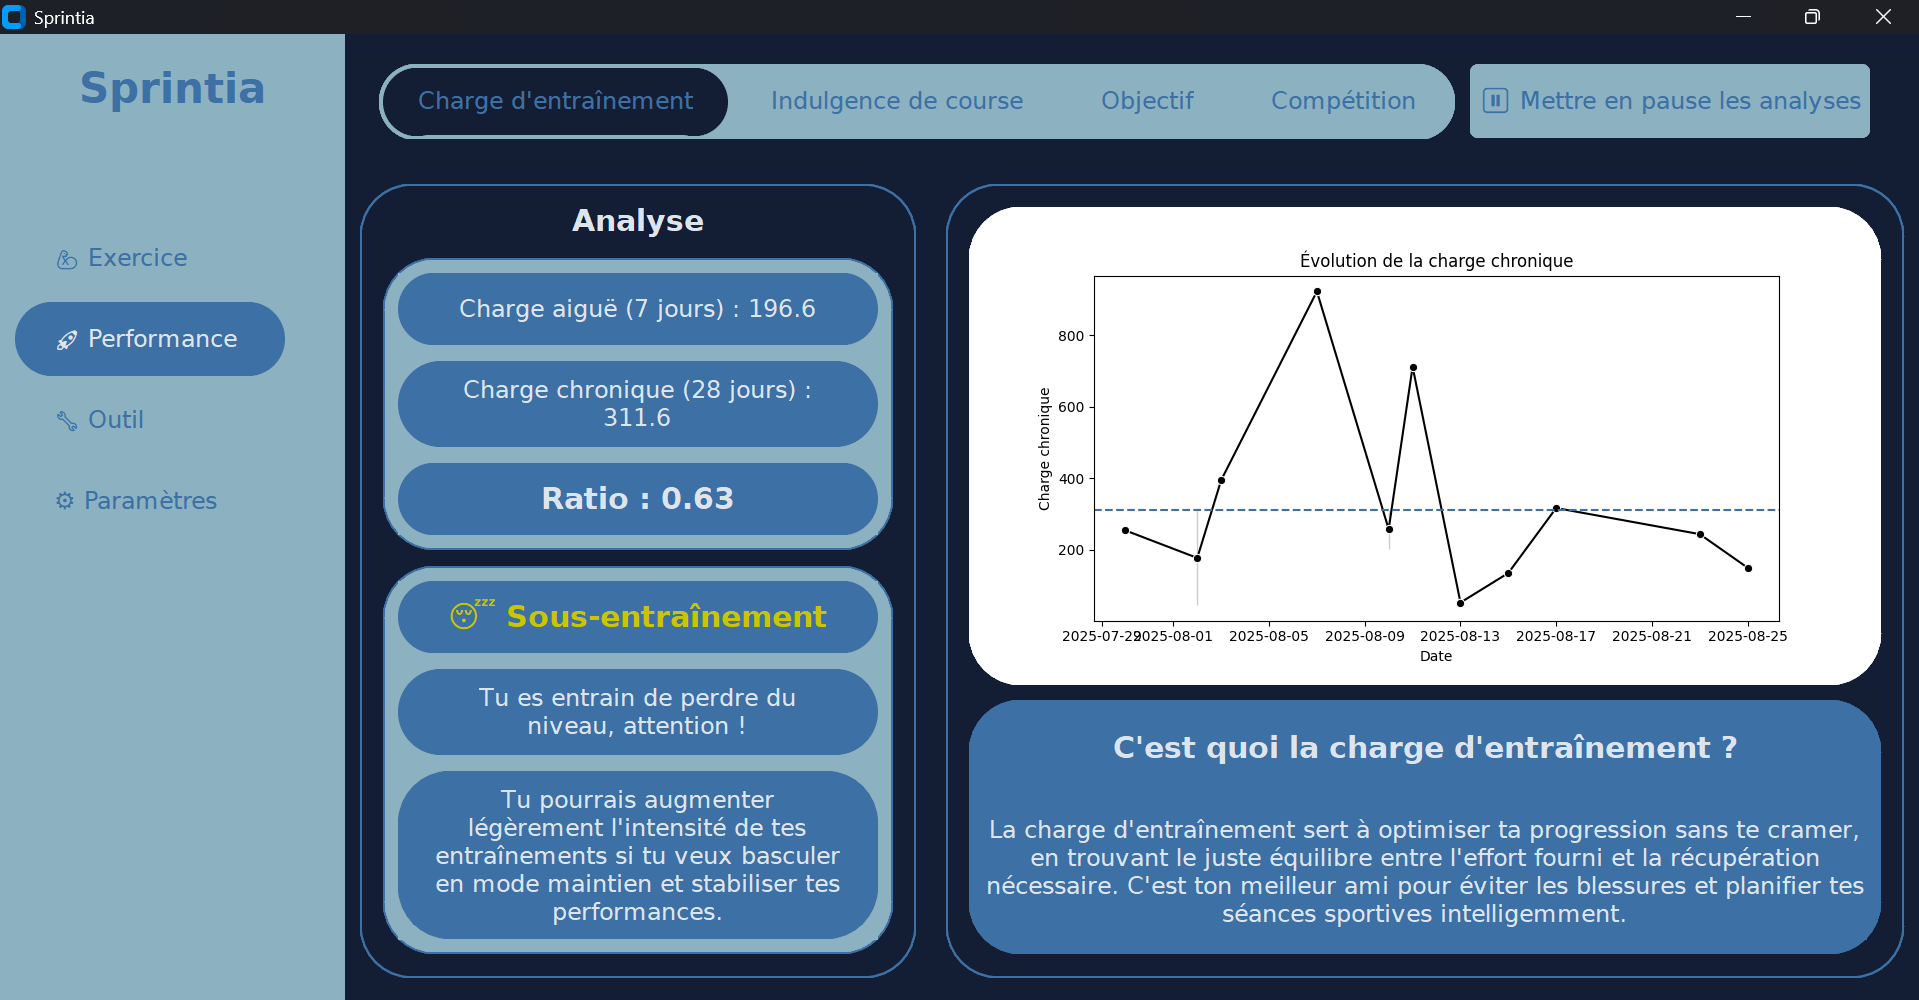
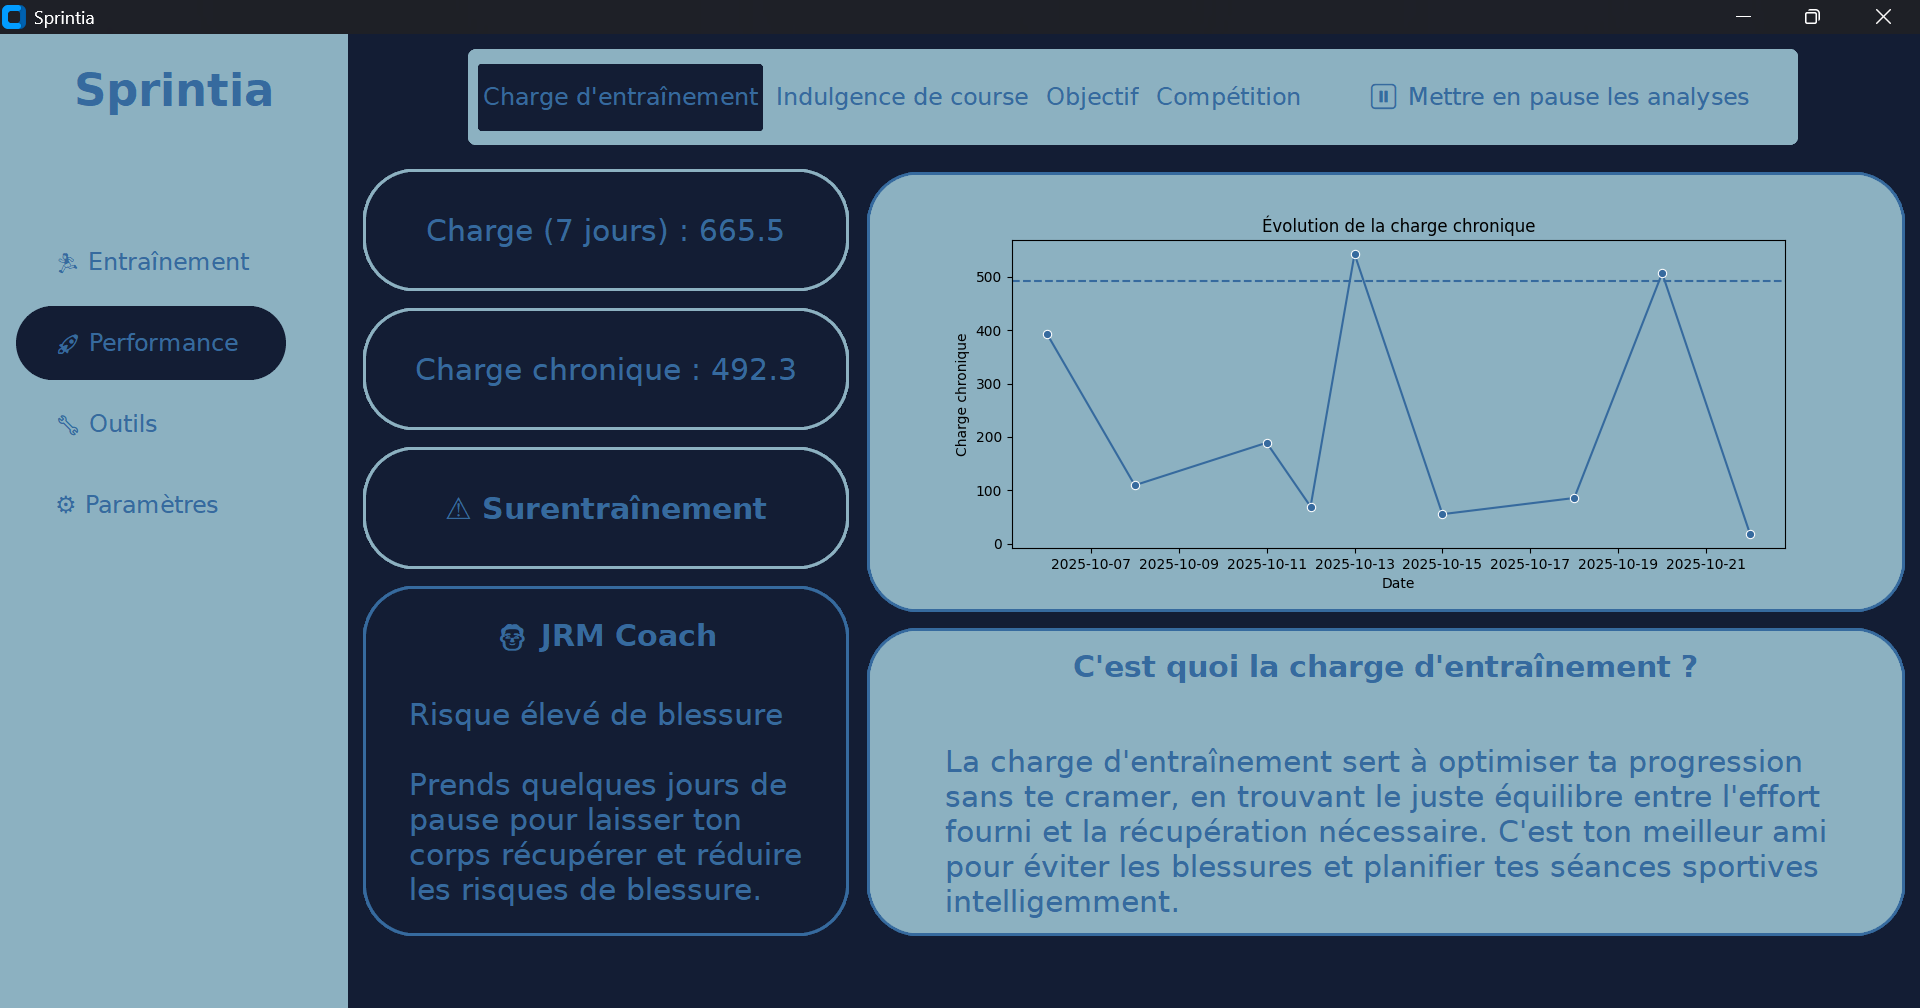
Teasing de Sprintia 3.2

diff --git a/README.md b/README.md
@@ -1,5 +1,7 @@
 # Bienvenue sur Sprintia
 
+## 🔥 Sprintia 3.2 arrive Jeudi 23 Octobre 2025 à 10h
+
 ## Sommaire
 - [ℹ Petite information](#ℹ-petite-information)
 - [📌 Sprintia c'est quoi ?](#-sprintia-cest-quoi-)
@@ -22,7 +24,7 @@ Sprintia est conçue pour t'aider avant et après un entraînement grâce à des
 ## ⚡ Fonctionnalités principales
 
 ### Charge d'entraînement
-La charge d'entraînement sert à optimiser ta progression sans te cramer, en trouvant le juste équilibre entre l'effort fourni et la récupération nécessaire.
+La charge d'entraînement sert à optimiser ta progression sans te cramer, en trouvant le juste équilibre entre l'effort fourni et la récupération nécessaire. La charge d'entraînement est adapté à tous les niveaux
 
 ![Capture d'écran de Sprintia](<Images/Charge d'entraînement.png>)
 
@@ -32,9 +34,14 @@ L’indulgence de course t’aide à ajuster ton kilométrage des 7 derniers jou
 ![Capture d'écran de Sprintia](<Images/Indulgence de course.png>)
 
 ### Prédicteur de performance
-Estime tes temps sur n'importe quelle distance (5 km, 10 km, semi-marathon, marathon) à partir de tes courses récentes.
+Le prédicteur de performance te permet d'estimer tes temps sur n'importe quelle distance (5 km, 10 km, semi-marathon, marathon) à partir de tes courses récentes.
 
 ![Capture d'écran de Sprintia](<Images/Prédicteur de performance.png>)
+
+### JRM Coach
+Un coach entièrement personnalisable. Crée ton propre coach : choisis son nom, son style et même son avatar. Ton coach, à ton image, pour te motiver au quotidien !
+
+![Capture d'écran de Sprintia](<Images/JRM Coach.png>)
 
 ## 💻 Compatibilité
 
@@ -52,7 +59,7 @@ Sprintia, est compatible avec les PC qui tournent sous Windows.
 
 ◉ Rends-toi dans tes documents puis dans le dossier Sprintia. Fais un clic-droit sur "Sprintia.exe" puis "Afficher d'autres options" puis "Envoyer vers" puis clique sur "Bureau (créer un raccourci)"
 
-◉ Ensuite, va sur ton bureau tu verras un fichier nommé "Sprintia.exe - Raccourci" fais un clic-droit dessus puis "Renommer" et renomme le "Sprintia" ça seras plus propre.
+◉ Ensuite, va sur ton bureau tu verras un fichier nommé "Sprintia.exe - Raccourci" fais un clic-droit dessus puis "Renommer" et renomme le "Sprintia" ça sera plus propre.
 
 ◉ Bravo ! Tu as réussi à faire le tips maintenant tu n'auras plus qu'a double-clic sur Sprintia avec l'icône et hop, Sprintia se lancera !
 
@@ -60,9 +67,9 @@ Sprintia, est compatible avec les PC qui tournent sous Windows.
 
 ◉ Maintenant, tu n'as plus qu'à te rendre dans tes documents puis dans le dossier Sprintia. Désormais, tu n'as plus qu'à double-cliquer sur "Sprintia.exe".
 
-◉ Si une fenêtre de ce type (voir si-dessous) apparaît pas de panique, c'est parce que Microsoft ne connaît pas Sprintia.
+◉ Si une fenêtre de ce type (voir ci-dessous) apparaît pas de panique, c'est parce que Microsoft ne connaît pas Sprintia.
 
-![Capture d'écran de la fênetre de sécurité Windows](<Images/Windows Security.png>)
+![Capture d'écran de la fenêtre de sécurité Windows](<Images/Windows Security.png>)
 
 ◉ Clique sur "Informations complémentaires", puis sur "Exécuter quand même" et voilà désormais tu peux utiliser Sprintia, bon entraînement 😉.
 
